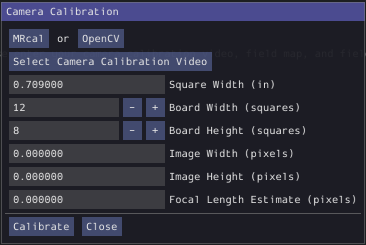
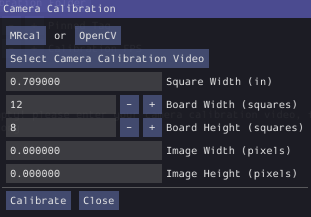
Finish second draft.

diff --git a/source/docs/software/wpilib-tools/wpical/index.rst b/source/docs/software/wpilib-tools/wpical/index.rst
@@ -1,9 +1,9 @@
 WPIcal
 ======
+WPIcal is a cross-platform utility that can be used to empirically measure the position and orientation of Apriltags. The primary use case for WPIcal is to make sure robots can perform as they would on an event field, but on a practice field that may have imperfect Apriltags setup.
+
 .. image:: images/WPIcal.png
     :alt: WPIcal
-
-WPIcal is a cross-platform utility that can be used to empirically measure the position and orientation of Apriltags. The primary use case for WPIcal is to make sure robots can perform as they would on an event field, but on a practice field that may have imperfect Apriltags setup.
 
 In Visual Studio Code, press :kbd:`Ctrl+Shift+P` and type ``WPILib`` or click the WPILib logo in the top right to launch the WPILib Command Palette. Select :guilabel:`Start Tool`, then select :guilabel:`WPIcal`.
 
@@ -11,7 +11,33 @@ In Visual Studio Code, press :kbd:`Ctrl+Shift+P` and type ``WPILib`` or click th
 
 Overview
 --------
-Conceptually, if you know how far tags are away from each other, and you know the field-relative coordinates of one of the tags, (the "pinned" tag) you can figure out the field-relative coordinates of the other tags. WPIcal achieves this by running an optimization on frames from videos that the user takes of the field. WPIcal is field-agnostic, meaning it will work with any FRC apriltag layout, as well as custom apriltag layouts, as long as they conform to the WPILib standard field layout.
+Conceptually, if you know how far tags are away from each other, and you know the field-relative coordinates of one of the tags, (the "pinned" tag) you can figure out the field-relative coordinates of the other tags. WPIcal achieves this by running an optimization on frames from videos that the user takes of the field. WPIcal is field-agnostic, meaning it will work with any FRC apriltag layout, as well as custom apriltag layouts, as long as they follow a couple of rules:
+
+* Translation components (in meters) are measured relative to the blue alliance origin.
+* Rotations are represented as Quaternions.
+
+Example:
+
+.. code-block:: json
+
+    {
+        "ID": 1,
+        "pose": {
+            "translation": {
+                "x": 15.079471999999997,
+                "y": 0.24587199999999998,
+                "z": 1.355852
+            },
+            "rotation": {
+                "quaternion": {
+                    "W": 0.5000000000000001,
+                    "X": 0.0,
+                    "Y": 0.0,
+                    "Z": 0.8660254037844386
+                }
+            },
+        },
+    }
 
 .. important:: WPIcal is meant to correct for SMALL variations in tag placement. It is still important that you set up your Apriltags in mostly the correct location and orientation, so WPIcal performs the optimal calibration.
 .. important:: Make sure that you verify the results of each calibration thoroughly to ensure that your calibration matches your field setup accurately.
@@ -27,17 +53,7 @@ To calibrate your camera from a video file, click on :guilabel:`Calibrate Camera
 .. image:: images/Calibrate.png
     :alt: Calibrate
 
-There are two options for calibrating your camera, :guilabel:`OpenCV` and :guilabel:`MRcal`. It is generally recommended to calibrate with :guilabel:`MRcal`, as it has slightly better accuracy and is more robust against bad calibration data. The calibration option you use will dictate the type of board you calibrate with.
-
-:guilabel:`OpenCV` calibration uses a ChArUco board:
-
-.. image:: images/ChArUco.png
-    :alt: ChArUco
-
-:guilabel:`MRcal` uses a Checkerboard pattern:
-
-.. image:: images/Chessboard.png
-    :alt: Checkerboard
+There are two options for calibrating your camera, :guilabel:`OpenCV` and :guilabel:`MRcal`. It is generally recommended to calibrate with :guilabel:`MRcal`, as it has slightly better accuracy and is more robust against bad calibration data. The calibration option you use will dictate the type of board you calibrate with. :guilabel:`OpenCV` calibration uses a ChArUco board with the 5x5 dictionary. :guilabel:`MRcal` uses a Checkerboard pattern.
 
 .. note:: Regardless of which calibration option you use, make sure your calibration board has not been bent or creased, and is lying on a flat surface.
 .. note:: It does not matter if you use the exact same board as shown in the images, as there are fields in each calibration option to customize the calibration for your specific board.
@@ -63,7 +79,6 @@ For :guilabel:`MRcal`, there are three more options to fill in:
 
 * :guilabel:`Image Width` is the width (in pixels) of the video's resolution
 * :guilabel:`Image Height` is the height (in pixels) of the video's resolution
-* :guilabel:`Focal Length` is the focal length (in pixels) of the camera.
 
 .. image:: images/MRcal.png
     :alt: MRcal
@@ -84,12 +99,32 @@ Checkerboard:
 
 .. warning:: If any frames from the camera calibration look suspect, take a new video of the calibration board and try again.
 
-The camera calibration will automatically load the generated camera intrinsics JSON into WPIcal to continue to field calibration, but will also output the JSON file so it can be used for future calibrations.
+The camera calibration will automatically load the generated camera intrinsics JSON into WPIcal to continue to field calibration, but will also output the JSON file so it can be used for future calibrations. The calibration JSON will be saved as ``cameracalibration.json`` in the directory containing the calibration video you provided to WPIcal.
 
-Upload Calibration JSON
-^^^^^^^^^^^^^^^^^^^^^^^
+External Camera Calibration
+^^^^^^^^^^^^^^^^^^^^^^^^^^^
 
-As opposed to calibrating cameras in the tool, WPIcal also allows you to upload a camera intrinsics JSON. There are a three things each calibration JSON needs:
+As opposed to calibrating cameras in the tool, WPIcal also allows you to upload a camera intrinsics JSON.
+
+CalibDB
+*******
+One common method for external camera calibration is `CalibDB.net <https://calibdb.net/>`_. WPIcal allows you to directly upload the generated CalibDB JSON without any modification. Make sure to download the OpenCV format JSON:
+
+.. image:: images/CalibdbDownload.png
+    :alt: CalibdbDownload
+
+Then:
+
+.. image:: images/CalibdbOpenCVFormat.png
+    :alt: CalibdbOpenCVFormat
+
+.. important:: When uploading a CalibDB JSON, ensure that you download the calibration with the proper resolution selected.
+
+.. warning:: CalibDB calibrations have been known to fail when bad snapshots are taken. If your calibration data looks suspect, repeat calibration process again.
+
+Custom JSON
+***********
+There are a three things each calibration JSON needs:
 
 * ``avg_reprojection_error``
 * ``camera_matrix``
@@ -98,7 +133,7 @@ As opposed to calibrating cameras in the tool, WPIcal also allows you to upload 
 Example:
 
 .. code-block:: json
-    
+
     {
         "avg_reprojection_error": 0.3989609373420966,
         "camera_matrix": [
@@ -130,36 +165,20 @@ Example:
         ]
     }
 
-
-One common method for external camera calibration is `CalibDB.net <https://calibdb.net/>`_. WPIcal allows you to directly upload the generated CalibDB JSON without any modification. Make sure to download the OpenCV format JSON:
-
-
-.. image:: images/CalibdbDownload.png
-    :alt: CalibdbDownload
-
-Then:
-
-.. image:: images/CalibdbOpenCVFormat.png
-    :alt: CalibdbOpenCVFormat
-
-.. important:: When uploading a CalibDB JSON, ensure that you download the calibration with the proper resolution selected.
-
-.. warning:: CalibDB calibrations have been known to fail when bad snapshots are taken. If your calibration data looks suspect, repeat calibration process again.
-
 Field Calibration
 -----------------
 
-After calibrating the camera, you can use the camera model to find the relative positions of the Apriltags. The calibration process will generate a .json file and a .fmap for use on coprocessors and in robot code.
+After calibrating the camera, you can use the camera model to find the relative positions of the Apriltags. The calibration process will generate a WPILib field layout .json file and a .fmap for use on coprocessors and in robot code. WPIcal will prompt the user to specify a location to save the generated .json and .fmap field layouts to when the :guilabel:`Calibrate!!!` button is pressed.
 
 Upload Ideal Field Map
 ^^^^^^^^^^^^^^^^^^^^^^
 
-WPIcal uses an "ideal" field map JSON as an initial guess point for the optimization. It is recommended to upload the json file included with WPILib.
+WPIcal uses an "ideal" field map JSON as an initial guess point for the optimization. It is recommended to upload the json file included with WPILib, which can be found here: `Field JSON <https://github.com/wpilibsuite/allwpilib/tree/main/apriltag/src/main/native/resources/edu/wpi/first/apriltag>`_
 
 Select Field Calibration Directory
 ^^^^^^^^^^^^^^^^^^^^^^^^^^^^^^^^^^
 
-WPIcal can calibrate a field based on one or more videos. All the calibration videos must be stored in their own directory, separate from any other files. 
+WPIcal can calibrate a field based on one or more videos. All the calibration videos must be stored in their own directory, separate from any other files.
 
 Pinned Tag
 ^^^^^^^^^^
